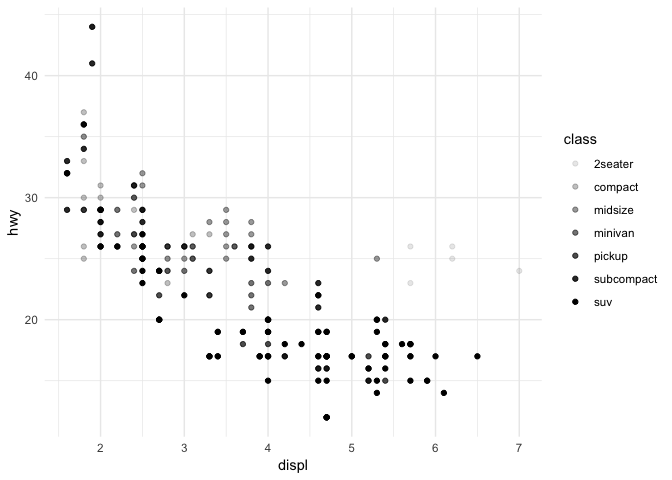
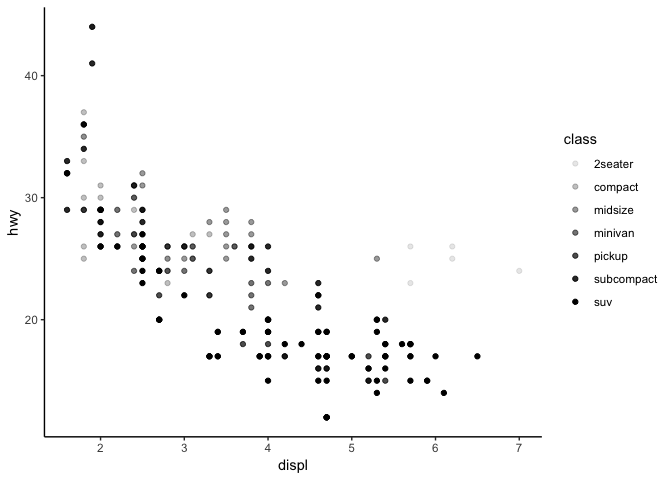
set theme to classic

diff --git a/docs/Lesson1.html b/docs/Lesson1.html
@@ -605,16 +605,15 @@ mpg<span class="op">$</span>hwy  <span class="co"># print a column</span></code>
 <h2>Themes</h2>
 <p>Change plot style. Link for more <a href="https://www.datanovia.com/en/blog/ggplot-themes-gallery/">ggplot themes</a>.</p>
 <div class="sourceCode"><pre class="sourceCode r"><code class="sourceCode r"><span class="kw">require</span>(ggthemes)
-<span class="co"># install.packages(&#39;tvthemes&#39;) require(tvthemes)</span>
 
 <span class="co"># classic theme</span>
-<span class="kw">ggplot</span>(<span class="dt">data =</span> my_data) <span class="op">+</span><span class="st"> </span><span class="kw">geom_point</span>(<span class="dt">mapping =</span> <span class="kw">aes</span>(<span class="dt">x =</span> displ, <span class="dt">y =</span> hwy)) <span class="op">+</span><span class="st"> </span><span class="kw">theme_classic</span>()</code></pre></div>
+<span class="kw">ggplot</span>(<span class="dt">data =</span> my_data) <span class="op">+</span><span class="st"> </span><span class="kw">geom_point</span>(<span class="dt">mapping =</span> <span class="kw">aes</span>(<span class="dt">x =</span> displ, <span class="dt">y =</span> hwy)) <span class="op">+</span><span class="st"> </span><span class="kw">theme_minimal</span>()</code></pre></div>
 <p><img src="Lesson1_files/figure-html/unnamed-chunk-9-1.png" /><!-- --></p>
 <div class="sourceCode"><pre class="sourceCode r"><code class="sourceCode r"><span class="co"># minimal theme</span>
-<span class="kw">ggplot</span>(<span class="dt">data =</span> my_data) <span class="op">+</span><span class="st"> </span><span class="kw">geom_point</span>(<span class="dt">mapping =</span> <span class="kw">aes</span>(<span class="dt">x =</span> displ, <span class="dt">y =</span> hwy)) <span class="op">+</span><span class="st"> </span><span class="kw">theme_minimal</span>()</code></pre></div>
+<span class="kw">ggplot</span>(<span class="dt">data =</span> my_data) <span class="op">+</span><span class="st"> </span><span class="kw">geom_point</span>(<span class="dt">mapping =</span> <span class="kw">aes</span>(<span class="dt">x =</span> displ, <span class="dt">y =</span> hwy)) <span class="op">+</span><span class="st"> </span><span class="kw">theme_tufte</span>()</code></pre></div>
 <p><img src="Lesson1_files/figure-html/unnamed-chunk-9-2.png" /><!-- --></p>
 <div class="sourceCode"><pre class="sourceCode r"><code class="sourceCode r"><span class="co"># assign theme to variable</span>
-my_theme &lt;-<span class="st"> </span><span class="kw">theme_minimal</span>()  <span class="co"># assign theme to your own variable </span>
+my_theme &lt;-<span class="st"> </span><span class="kw">theme_classic</span>()  <span class="co"># assign theme to your own variable </span>
 <span class="kw">ggplot</span>(<span class="dt">data =</span> my_data) <span class="op">+</span><span class="st"> </span><span class="kw">geom_point</span>(<span class="dt">mapping =</span> <span class="kw">aes</span>(<span class="dt">x =</span> displ, <span class="dt">y =</span> hwy)) <span class="op">+</span><span class="st"> </span>my_theme  <span class="co"># add variable defining your chosen theme  </span></code></pre></div>
 <p><img src="Lesson1_files/figure-html/unnamed-chunk-9-3.png" /><!-- -->  </p>
 </div>

diff --git a/Lesson1.md b/Lesson1.md
@@ -212,24 +212,23 @@ Change plot style. Link for more [ggplot themes](https://www.datanovia.com/en/bl
 
 ```r
 require(ggthemes)
-# install.packages('tvthemes') require(tvthemes)
 
 # classic theme
-ggplot(data = my_data) + geom_point(mapping = aes(x = displ, y = hwy)) + theme_classic()
+ggplot(data = my_data) + geom_point(mapping = aes(x = displ, y = hwy)) + theme_minimal()
 ```
 
 ![](Lesson1_files/figure-html/unnamed-chunk-9-1.png)<!-- -->
 
 ```r
 # minimal theme
-ggplot(data = my_data) + geom_point(mapping = aes(x = displ, y = hwy)) + theme_minimal()
+ggplot(data = my_data) + geom_point(mapping = aes(x = displ, y = hwy)) + theme_tufte()
 ```
 
 ![](Lesson1_files/figure-html/unnamed-chunk-9-2.png)<!-- -->
 
 ```r
 # assign theme to variable
-my_theme <- theme_minimal()  # assign theme to your own variable 
+my_theme <- theme_classic()  # assign theme to your own variable 
 ggplot(data = my_data) + geom_point(mapping = aes(x = displ, y = hwy)) + my_theme  # add variable defining your chosen theme  
 ```
 
